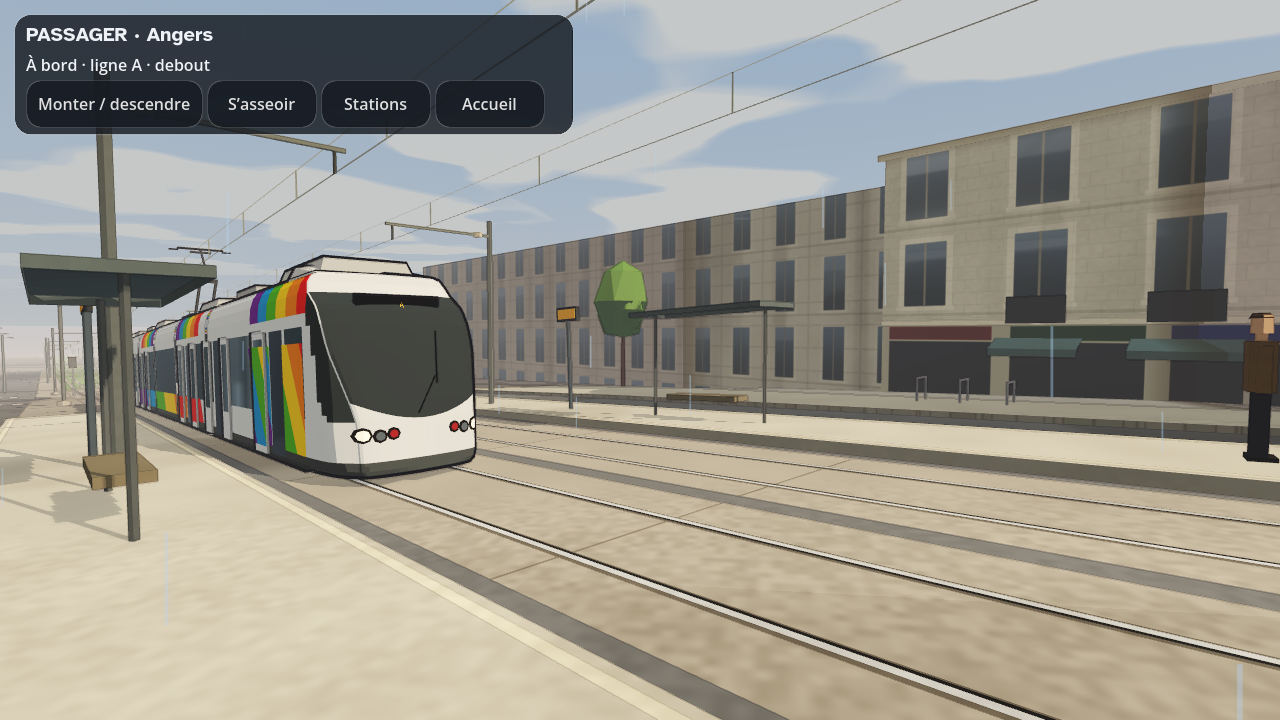
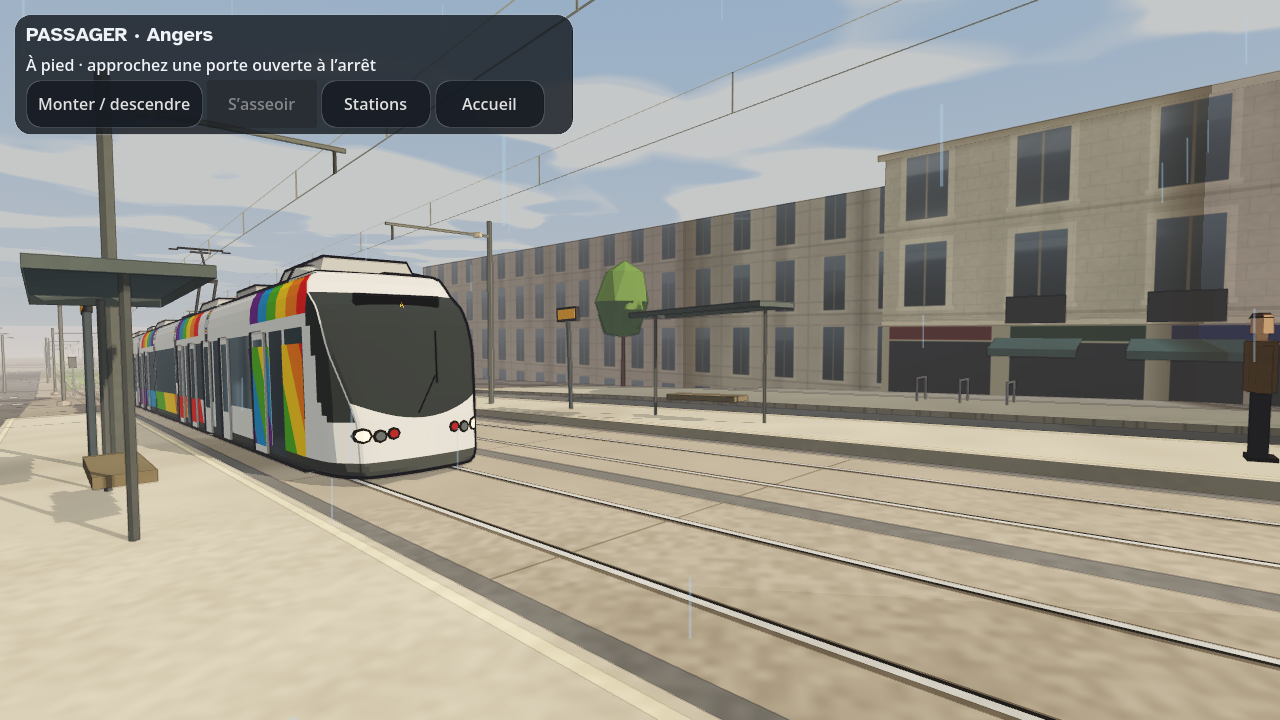
fix(passenger): preserve day-night settings and validate captured travel states

diff --git a/docs/features/RUST_WEATHER_PASSENGER.md b/docs/features/RUST_WEATHER_PASSENGER.md
@@ -46,6 +46,7 @@ L'intégration des bibliothèques natives aux APK/EXE de release reste une étap
   ouverte et à l'arrêt. La caméra suit les modules articulés de la **véritable rame IA**.
   Marche dans l'allée, sièges proches utilisables. Moteur audio existant réutilisé à bord,
   avec libération des voix à la descente. Pas de duplication du trafic tramway.
+  L'horloge passager respecte les heures fixes et le cycle normal/accéléré des réglages.
 
 ## Utilisation
 
